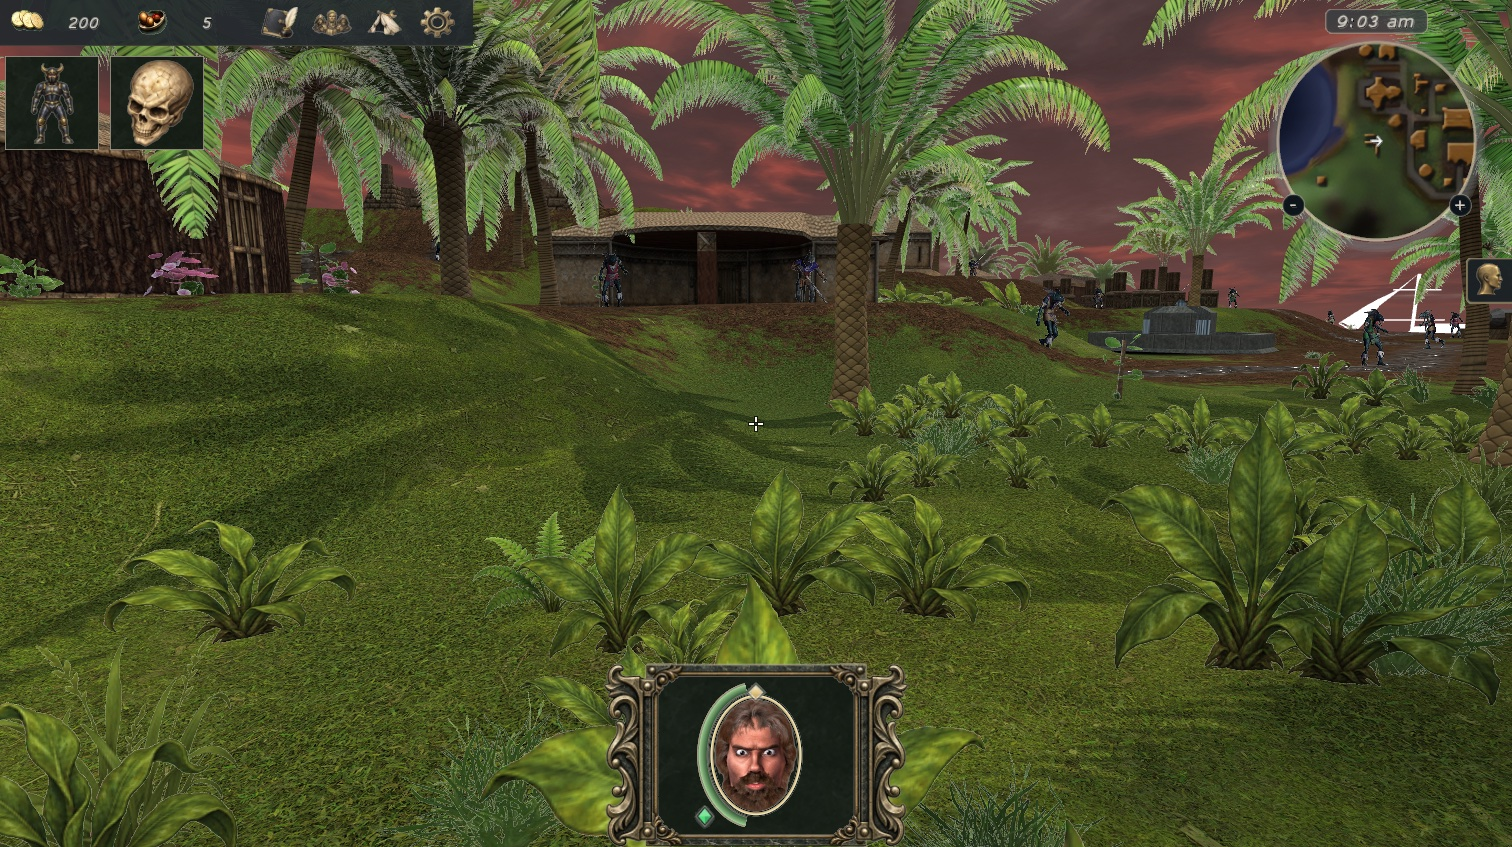
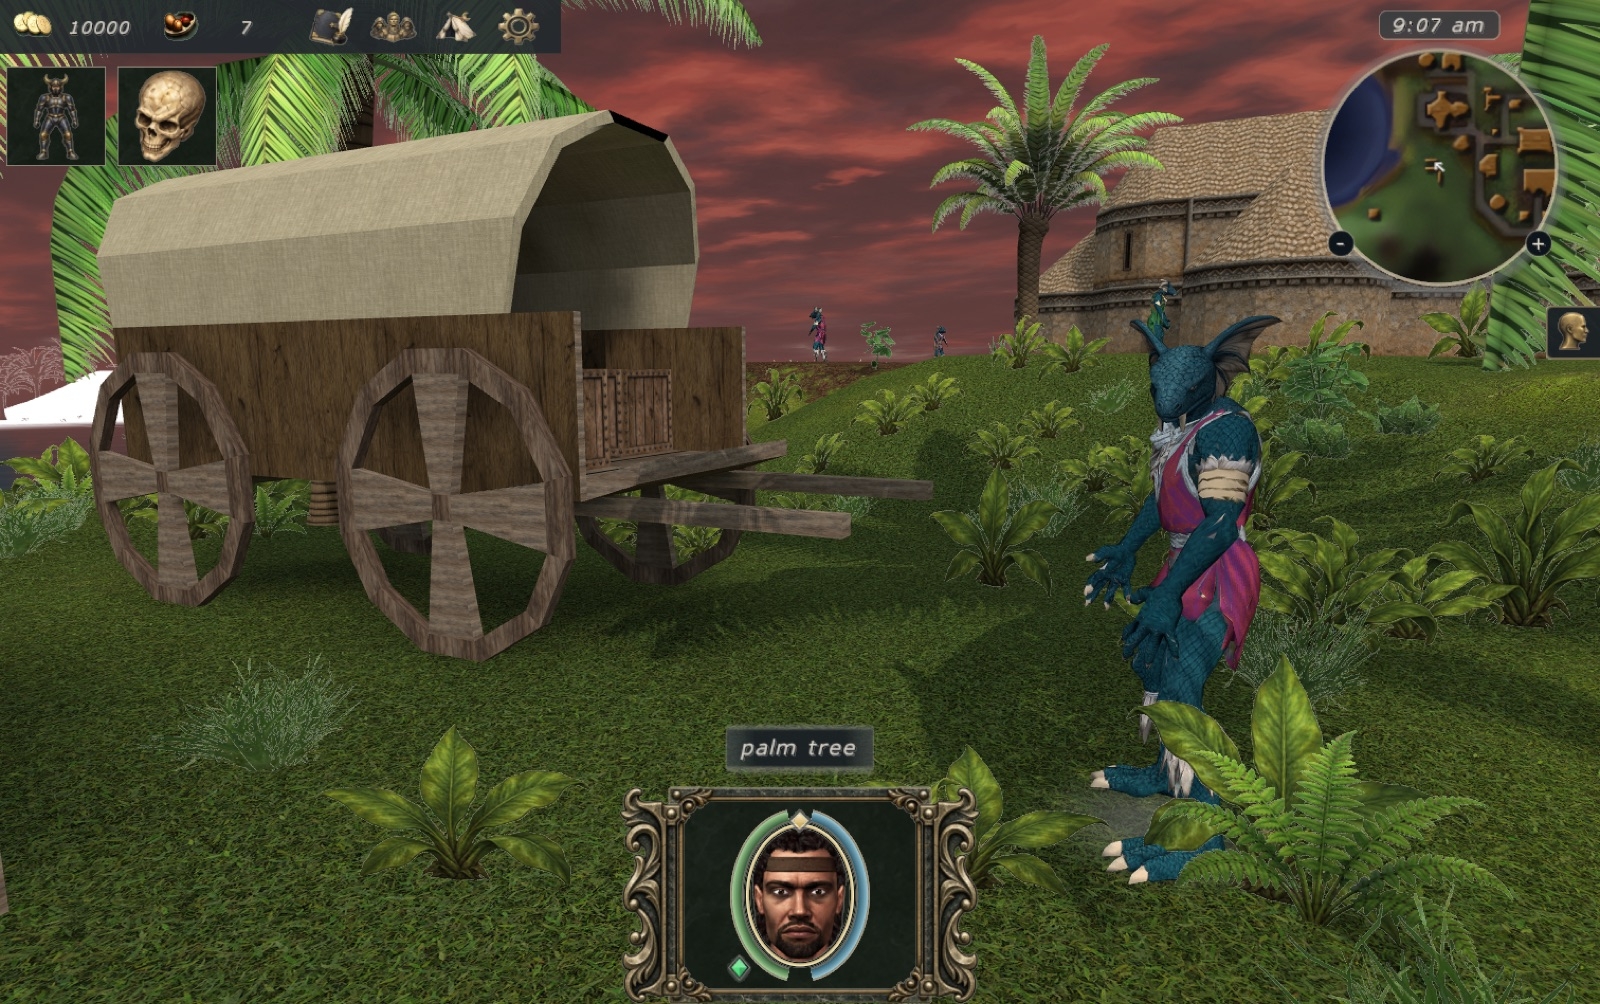
Screenshots for the rebase onto af93996c
macOS: the main menu with packaged content packs started like from Finder, and Dagger Wound
Islands on assets_dev. iPhone: New Sorpigal with the touch interface; the main menu is unchanged.

diff --git a/README.md b/README.md
@@ -1,7 +1,9 @@
 # Screenshots: native macOS and iPhone/iPad port
 
 Images referenced from the pull request that ports OpenYAMM to macOS and iPhone/iPad (Metal).
-They are not part of the code branch `macos-ios-native-port`.
+They are not part of the code branch `macos-ios-native-port`. Taken on af93996c.
 
-- `macos-main-menu.jpg`, `macos-gameplay.jpg`: macOS on Apple silicon, OpenYAMM.app with packaged assets.
-- `iphone-main-menu.jpg`, `iphone-gameplay.jpg`: iOS Simulator, iPhone 17 Pro, touch interface.
+- `macos-main-menu.jpg`: macOS on Apple silicon, OpenYAMM.app with packaged content packs, started like from Finder.
+- `macos-gameplay.jpg`: macOS, OpenYAMM.app on `assets_dev`, Dagger Wound Islands.
+- `iphone-main-menu.jpg`, `iphone-gameplay.jpg`: iOS Simulator, iPhone 17 Pro, touch interface, Android-profile content
+  packs in Documents; the gameplay shot is New Sorpigal.
